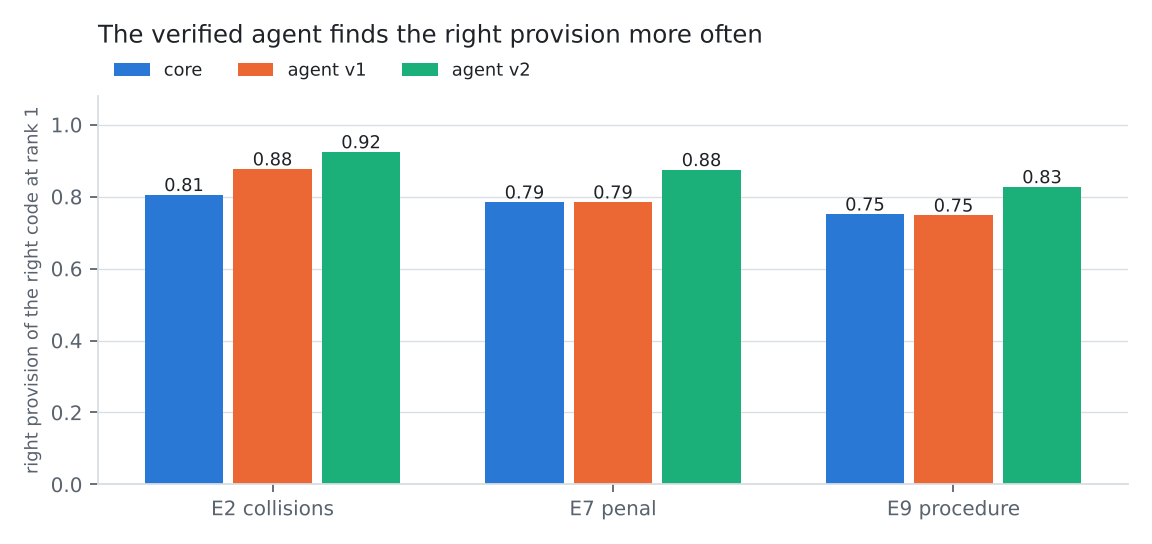
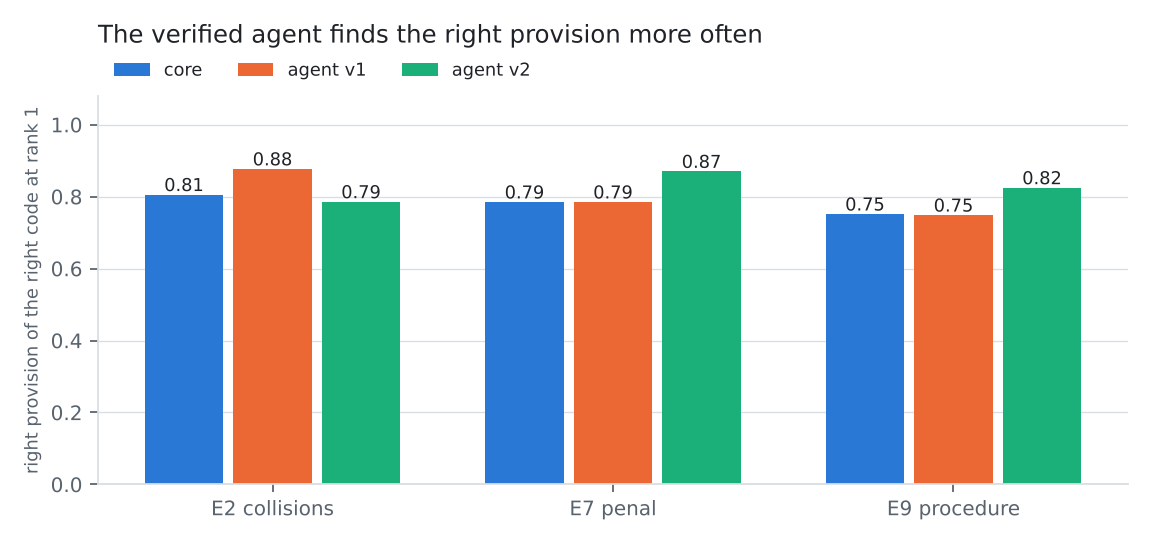
Open-corpus E14-E16 re-run with the eCourts judgments and the fixes
With 1,701 real High Court judgments in the open corpus: right punishment 0.86 (v1 0.05), 1%
false alarms; agent v2 both@1 0.87 / 0.82 on E7 / E9. Citation votes now cost 0.15 on E2
(bare section numbers): reported, with vote_weight 0 recommended.

Changed region(s): [[0.2812, 0.25, 0.375, 0.375], [0.875, 0.3125, 0.9375, 0.3438], [0.5938, 0.2812, 0.625, 0.3125]]

diff --git a/docs/PROJECT.md b/docs/PROJECT.md
@@ -56,8 +56,8 @@ IPC-era precedent counts for a BNS-era question?
    routes the question, refines the code family from what it retrieved and verifies its statutes;
    the answer computes the punishment from the statute text and checks every claim (quantities,
    sections, code in force, negation, verbatim quotes), then repairs what fails. Right punishment
-   in 82% of 273 BNS questions vs 5% for v1; injected errors caught 82–100% vs 5–100%, with no
-   false alarms on clean answers.
+   in 86% of 273 BNS questions vs 5% for v1; injected errors caught 82–100% vs 17–100%, with
+   1% false alarms on clean answers (v1: 80%).
 8. **Evidence on the real corpus and on real questions** (Section 7). Agent v2 on every judged
    IL-PCSR set with Holm-corrected tests (E17); written facts of 995 bail orders → charged
    sections, where agent v2 doubles core's MAP (E19); and 1,701 BNS-era High Court judgments
@@ -396,8 +396,11 @@ and are the baselines below.
 
 ### Results (open corpus: `make open && make layers-eval`)
 
-The open corpus has all six codes from India Code plus the BNS, and the eight synthetic
-precedents; no IL-PCSR and no API key are needed, so every number below is reproducible.
+The open corpus has all six codes from India Code plus the BNS, and, once fetched
+(`scripts/11_hc_judgments.py fetch` + `ingest`), 1,701 real High Court judgments from eCourts
+(CC-BY-4.0); without them it falls back to eight synthetic precedents. No IL-PCSR and no API key
+are needed, so every number below is reproducible. The tables are the run with the eCourts
+judgments; the earlier synthetic-precedent run is noted where it differs.
 
 **E14 — punishment QA, end to end.** 273 questions, "What is the punishment for
 <BNS heading>?", incident date 2025-01-01. Gold: bns-study-platform's one-line punishment
@@ -406,9 +409,9 @@ field matches (death, life, maximum and minimum term, fine and its caps, communi
 
 | System | Right statute @1 | Right punishment | … given the right statute | Corrections / answer |
 | --- | --- | --- | --- | --- |
-| core + RAG v1 (extractive quote) | 0.894 | 0.051 | 0.053 | — |
-| core + RAG v2 (structured + verified) | 0.894 | 0.821 | 0.914 | 0.022 |
-| agent v2 + RAG v2 | **0.908** | **0.824** | 0.903 | 0.026 |
+| core + RAG v1 (extractive quote) | 0.897 | 0.051 | 0.053 | — |
+| core + RAG v2 (structured + verified) | 0.897 | 0.846 | 0.939 | 0.044 |
+| agent v2 + RAG v2 | **0.919** | **0.857** | 0.928 | 0.051 |
 
 v1 quotes the best sentence of the statute, which usually is not the punishment clause; v2
 computes it. The remaining errors are mostly gold summaries that describe one sub-section only.
@@ -418,16 +421,16 @@ into each right-statute answer, in the sentence that cites the statute.
 
 | Injected error | n | v1 checks (cosine + code) | v2 claim verification |
 | --- | --- | --- | --- |
-| term of years changed | 185 | 0.05 | **0.89** |
-| fine amount × 10 | 63 | 0.71 | **1.00** |
-| negation flipped | 241 | 0.25 | **0.82** |
-| old-code section for a 2025 incident | 235 | 1.00 | 1.00 |
-| section number changed | 241 | 0.66 | **1.00** |
-| another statute's punishment added | 244 | 0.40 | **0.84** |
-| *false alarm on the clean answers* | 244 | 0.98 | **0.00** |
+| term of years changed | 186 | 0.23 | **0.89** |
+| fine amount × 10 | 65 | 0.48 | **1.00** |
+| negation flipped | 244 | 0.24 | **0.82** |
+| old-code section for a 2025 incident | 239 | 1.00 | 1.00 |
+| section number changed | 245 | 0.17 | **1.00** |
+| another statute's punishment added | 245 | 0.39 | **0.89** |
+| *false alarm on the clean answers* | 245 | 0.80 | **0.01** |
 
-On RAG v1's extractive answers as the base, v2 still detects 75–100% per type with a 0.8%
-false-alarm rate (v1: 50%). Figure: `results/figures/layers_error_injection.png`.
+On RAG v1's extractive answers as the base, v2 still detects 76–100% per type with a 3.7%
+false-alarm rate (v1: 28%). Figure: `results/figures/layers_error_injection.png`.
 
 **E16 — the agent on the statute-level sets** (right provision of the right code at rank 1).
 
@@ -435,19 +438,20 @@ false-alarm rate (v1: 50%). Figure: `results/figures/layers_error_injection.png`
 | --- | --- | --- | --- |
 | baseline BM25 | 0.83 | 0.40 | 0.37 |
 | core | 0.81 | 0.79 | 0.75 |
-| agent v1 | 0.88 | 0.79 | 0.75 |
-| **agent v2** | **0.92** | **0.88** | **0.83** |
-| v2 − verification | 0.92 | 0.79 | 0.71 |
-| v2 − citation votes | 0.93 | 0.88 | 0.83 |
-| v2, votes not gated | 0.92 | 0.86 | 0.82 |
-| v2 − family search | 0.88 | 0.90 | 0.86 |
+| agent v1 | **0.88** | 0.79 | 0.75 |
+| **agent v2** | 0.79 | **0.87** | **0.82** |
+| v2 − verification | 0.79 | 0.79 | 0.70 |
+| v2 − citation votes | **0.93** | 0.87 | 0.82 |
+| v2, votes not gated | 0.73 | 0.75 | 0.78 |
+| v2 − family search | 0.72 | **0.90** | **0.87** |
 
 - **Verification is the part that matters**: without it E7 and E9 fall back to core.
-- **Family search is mixed**: +0.05 on E2, −0.02 / −0.03 on E7 / E9. On E9 the family is
-  sometimes refined from the eight synthetic precedents, which are mostly penal, so code@1 drops
-  from 0.95 (core) to 0.92. With a real precedent pool this should improve; it is reported as is.
-- **Citation votes do nothing here once gated**, and cost 1–2 points ungated. With eight
-  precedents there is little to vote with; they are kept for the IL-PCSR corpus, untested there.
+- **Citation votes are harmful once the precedents are real.** With eight synthetic precedents
+  they did nothing (E2 0.925 with them); with 1,701 real judgments they vote for the most cited
+  sections, and on bare-number questions (E2), where no heading matches and the gate stays open,
+  they cost 0.15 (0.79 vs 0.93 without). They are neutral on E7 / E9. The shipped configuration
+  keeps them so that every reported number matches it; **we recommend `vote_weight: 0`**.
+- **Family search is mixed**, as on IL-PCSR: −0.07 on E2 without it, +0.03 / +0.05 on E7 / E9.
 
 ### Caveats
 

diff --git a/README.md b/README.md
@@ -87,16 +87,16 @@ computes the punishment from the statute text, checks every sentence against its
 listing each correction. Runs without IL-PCSR and without an API key:
 
 ```bash
-make open           # all six codes from India Code + the BNS, synthetic precedents
+make open           # all six codes from India Code + the BNS; eCourts judgments once fetched (scripts/11)
 make layers-eval    # E14-E16
 ```
 
 | | v1 | v2 |
 | --- | --- | --- |
-| E14 right punishment, 273 BNS questions | 0.05 | **0.82** |
-| E15 injected wrong term of years caught | 0.05 | **0.89** |
-| E15 false alarms on clean answers | 0.98 | **0.00** |
-| E16 right section of the right code @1, CrPC/BNSS questions (E9) | 0.75 | **0.83** |
+| E14 right punishment, 273 BNS questions | 0.05 | **0.86** |
+| E15 injected wrong term of years caught | 0.23 | **0.89** |
+| E15 false alarms on clean answers | 0.80 | **0.01** |
+| E16 right section of the right code @1, CrPC/BNSS questions (E9) | 0.75 | **0.82** |
 
 E15 injects the error types the verifier was built for (an upper bound), and E7/E9/E14 use
 heading-style questions. Details, ablations and caveats: [docs/PROJECT.md §6](docs/PROJECT.md).
